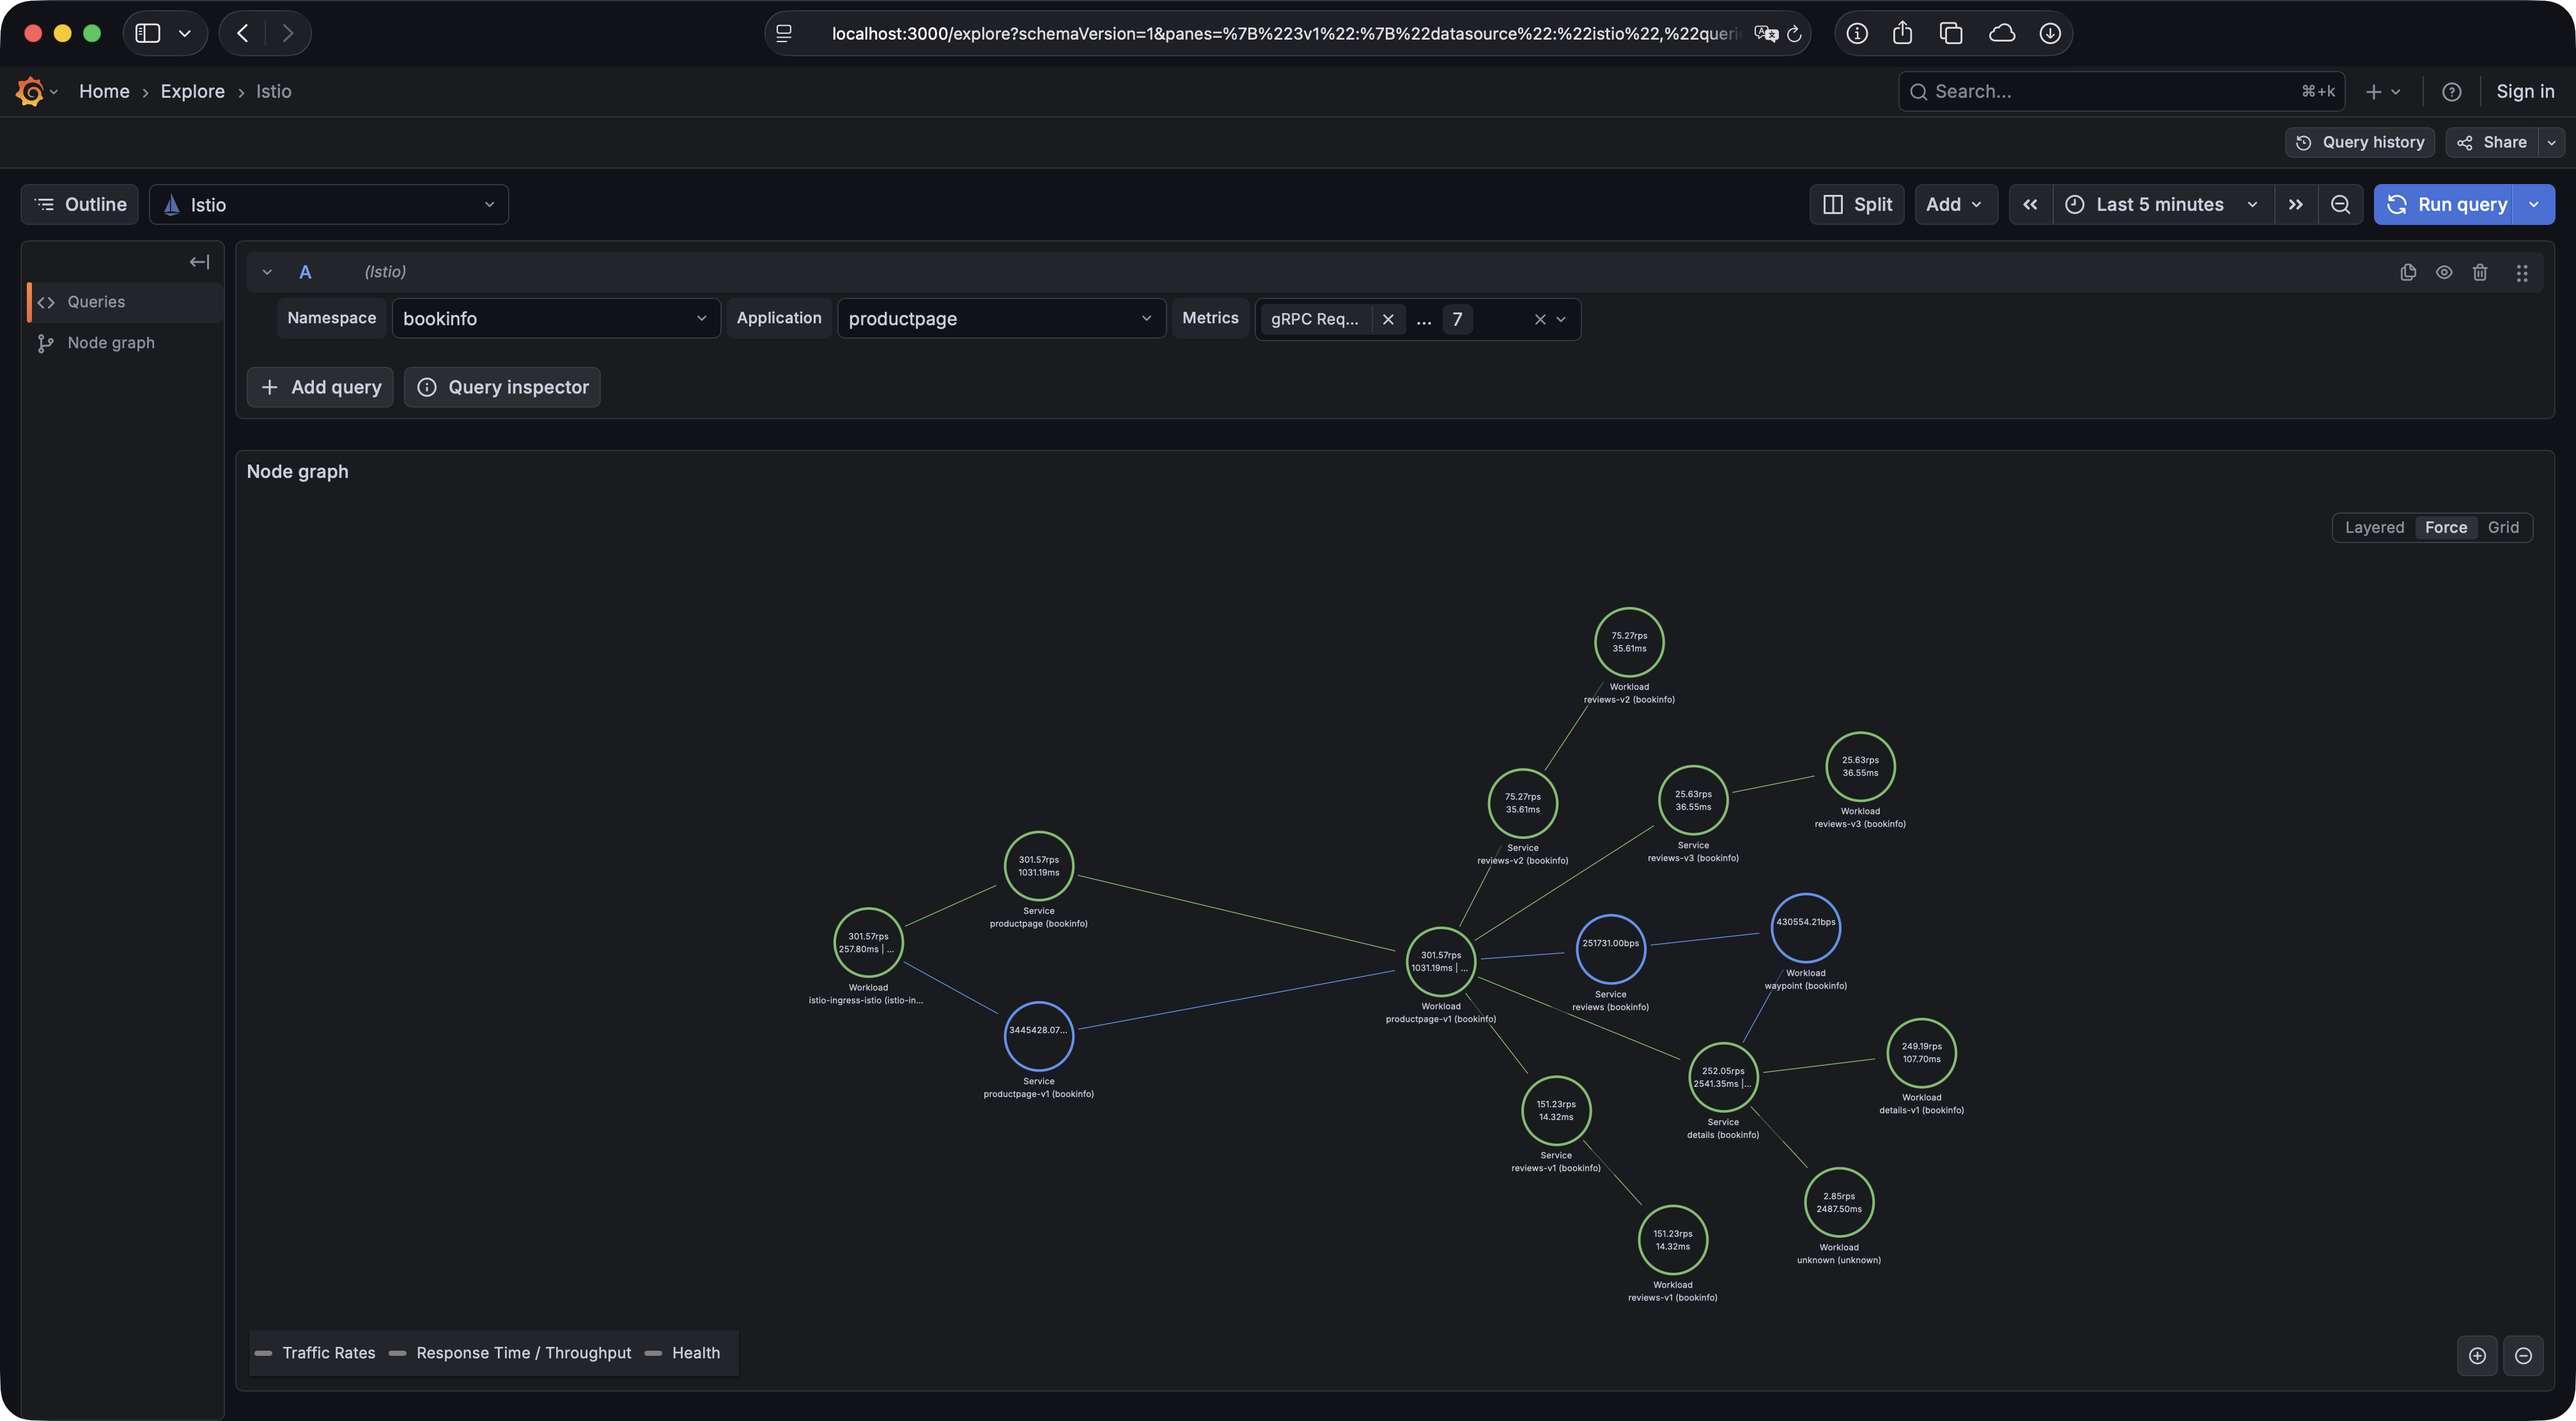
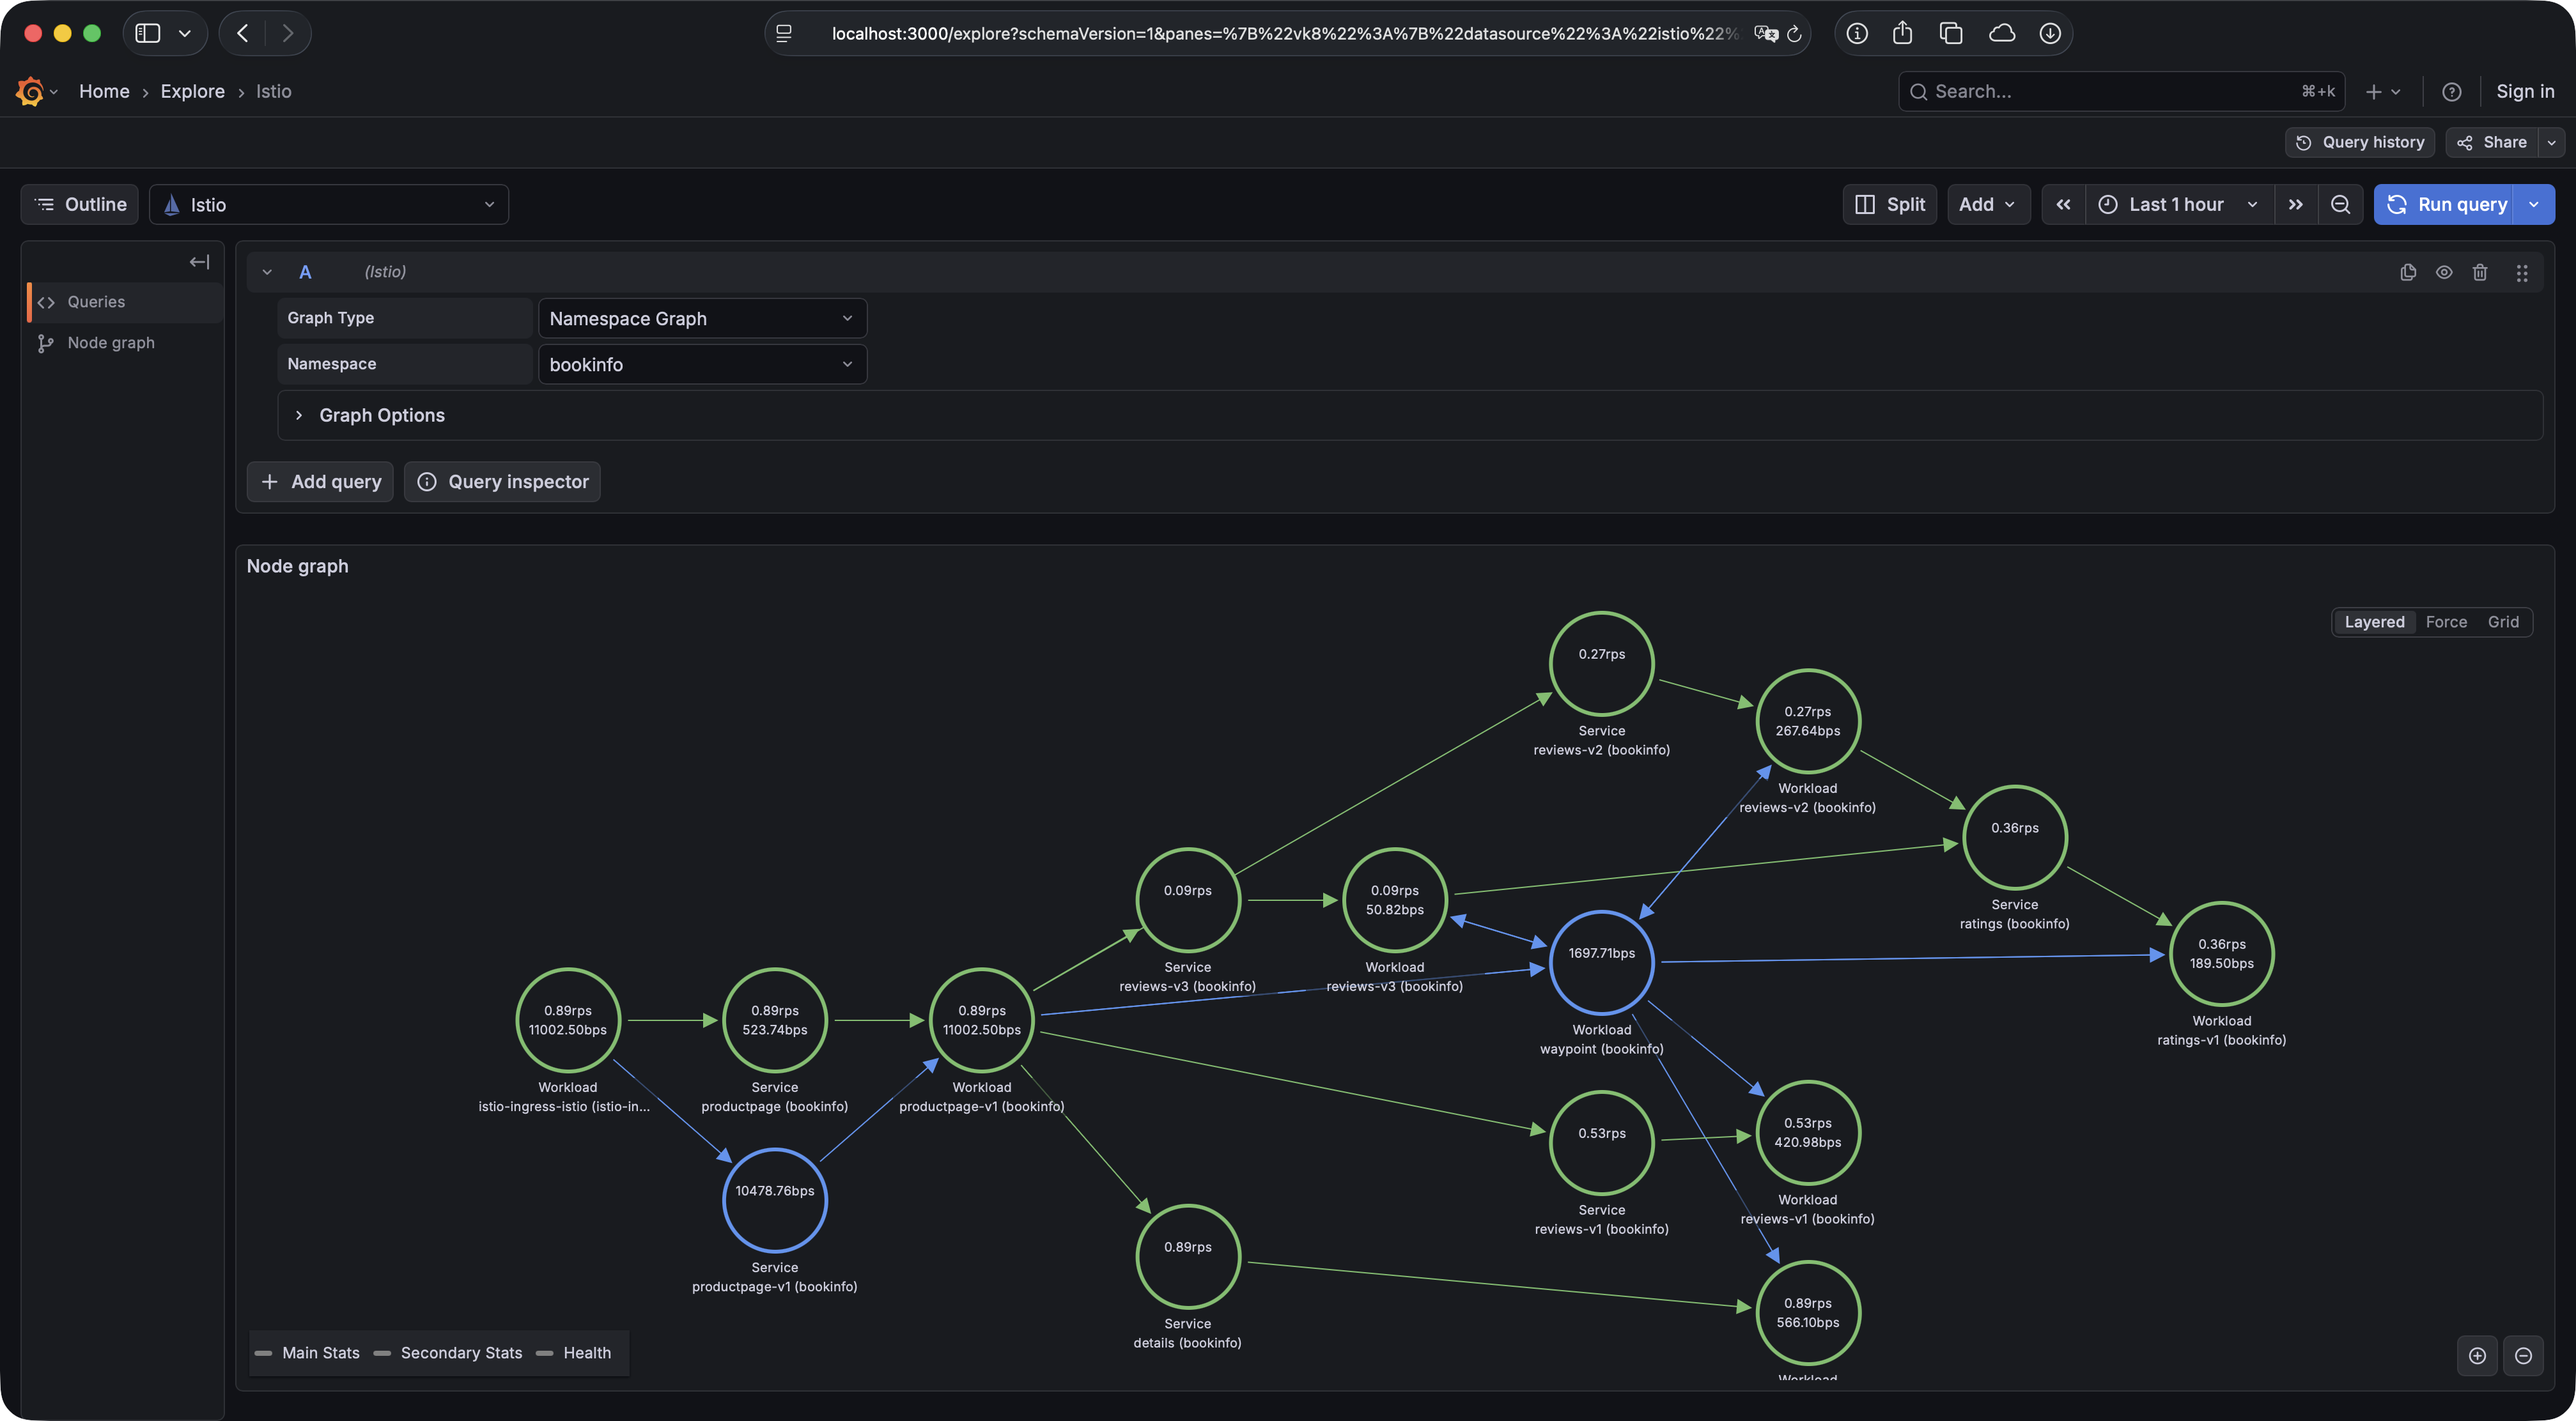
Adjust Readme (#19)
Adjust readme to include new screenshots and additional usage
information.

diff --git a/README.md b/README.md
@@ -10,8 +10,84 @@ Prometheus via the Grafana
       <td><img src="https://raw.githubusercontent.com/ricoberger/grafana-istio-plugin/refs/heads/main/src/img/screenshots/example-bookinfo.png" /></td>
       <td><img src="https://raw.githubusercontent.com/ricoberger/grafana-istio-plugin/refs/heads/main/src/img/screenshots/example-otel-demo.png" /></td>
     </tr>
+    <tr>
+      <td><img src="https://raw.githubusercontent.com/ricoberger/grafana-istio-plugin/refs/heads/main/src/img/screenshots/example-bookinfo-options-and-details.png" /></td>
+      <td><img src="https://raw.githubusercontent.com/ricoberger/grafana-istio-plugin/refs/heads/main/src/img/screenshots/example-dashboard.png" /></td>
+    </tr>
   </table>
 </div>
+
+> [!NOTE]
+>
+> The plugin requires the
+> [Istio Standard Metrics](https://istio.io/latest/docs/reference/config/metrics/)
+> to be available in your Prometheus instance.
+>
+> The plugin was only tested with Istio Ambient Mode. However, it should also
+> work for Istio Sidecar deployments, but might give some wrong results, because
+> the plugin currently doesn't handle the reporter of the metrics.
+
+## Usage
+
+### Query Options
+
+- Graph Type: Select between **Application Graph**, **Workload Graph** and
+  **Namespace Graph**, to visualize an application, workload or whole namespace.
+- Namespace: Select the **Namespace** of the application or workload or if the
+  **Namespace Graph** type is selected, the namespace which should be
+  visualized.
+- Application / Workload: Select the **Application** or **Workload** which
+  should be visualized.
+- Metrics: Select the metrics which should be included in the visualization. The
+  available metrics are: **gRPC Requests**, **gRPC Request Duration**, **gRPC
+  Sent Messages**, **gRPC Received Messages**, **HTTP Requests**, **HTTP Request
+  Duration**, **TCP Sent Bytes** and **TCP Received Bytes**. If a metric is not
+  selected, it might be that an edge between two nodes in the graph is not
+  shown, because there is no traffic for the selected metrics.
+- Idle Edges: If selected the graph will also shown **Idle Edges**, which means
+  edges which do not have any traffic in the selected time range.
+- Filters: Add multiple **Source Filters** and **Destination Filters** for
+  workloads, which should not be shown in the graph.
+
+### Variable Query Options
+
+- Variable Type: Select the type of the variable. The available types are
+  **Namespaces**, **Applications**, **Workloads** and **Filters**.
+- Namespace: Select the **Namespace** for an application, workload or filter
+  variable.
+- Filter Type: Select the type of the filter, when the variable type is set to
+  **Filters**. The available filter types are **Source** and **Destination**.
+- Graph Type: Select the graph type for which the filter variable is used. The
+  available options are **Application Graph** and **Workload Graph**. Depending
+  on the selection also a **Application** or **Workload** is required to
+  determine the source / destination filters for the application or workload.
+
+### Legend
+
+- **Color:** Depending on the traffic type an edge / node can have multiple
+  colors:
+  - **Green:** The edge / node has gRPC or HTTP traffic without an error rate.
+  - **Yellow:** The edge / node has gRPC or HTTP traffic with an error rate
+    above the configured warning threshold.
+  - **Red:** The edge / node has gRPC or HTTP traffic with an error rate above
+    the configured error threshold.
+  - **Blue:** The edge / node has TCP traffic.
+  - **Gray:** The edge / node has no traffic in the selected time range.
+- **Main / Secondary Stats:** The main statistics which are shown on an edge /
+  node:
+  - For edges / nodes with more HTTP then gRPC traffic, we show the number of
+    HTTP requests per second and the error rate in percent for HTTP traffic. The
+    secondary stats contains the P95 request duration in milliseconds if
+    available and the total number of bytes sent and received per second.
+  - For edges / nodes with more gRPC then HTTP traffic, we show the number of
+    gRPC requests per second and the error rate in percent for gRPC traffic. The
+    secondary stats contains the P95 request duration in milliseconds if
+    available and the total number of bytes sent and received per second.
+  - For edges / nodes with only TCP traffic, we show the total number of sent
+    and received bytes per second.
+  - For _workload_ nodes, we always try to show the server side statistics
+    first. If the workload does not have any server side traffic, we show the
+    client side statistics.
 
 ## Installation
 
